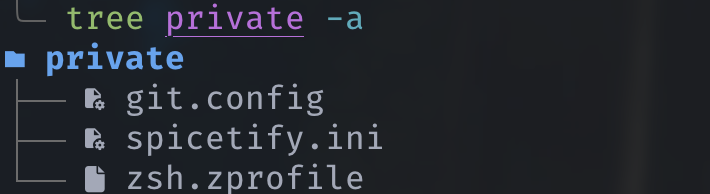
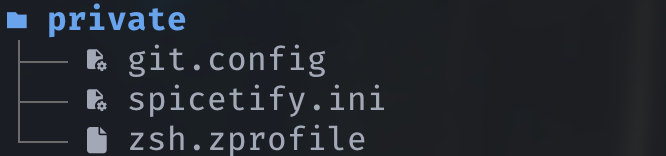
docs(readme): refine privacy section and layout

Changed region(s): [[0.0, 0.0256, 0.5706, 1.0], [0.5405, 0.5385, 0.5706, 0.5641], [0.4805, 0.5385, 0.5105, 0.5641]]

diff --git a/README.md b/README.md
@@ -91,8 +91,10 @@ Keep anything personal or environment-specific in `secrets/` and `private/`.
 Both are gitignored, so you won’t see my actual structure in this repo.
 If you want a reference, see:
 
-- ![private](assets/private.png)
-- ![secrets](assets/secrets.png)
+<p>
+  <img src="assets/private.png" alt="private" width="48%" />
+  <img src="assets/secrets.png" alt="secrets" width="48%" />
+</p>
 
 ## Getting started
 

diff --git a/README_CN.md b/README_CN.md
@@ -91,8 +91,10 @@
 这两个目录已在 gitignore 中忽略，因此你无法直接看到我的结构。
 如果需要参考，请查看：
 
-- ![private](assets/private.png)
-- ![secrets](assets/secrets.png)
+<p>
+  <img src="assets/private.png" alt="private" width="48%" />
+  <img src="assets/secrets.png" alt="secrets" width="48%" />
+</p>
 
 ## 快速开始
 
